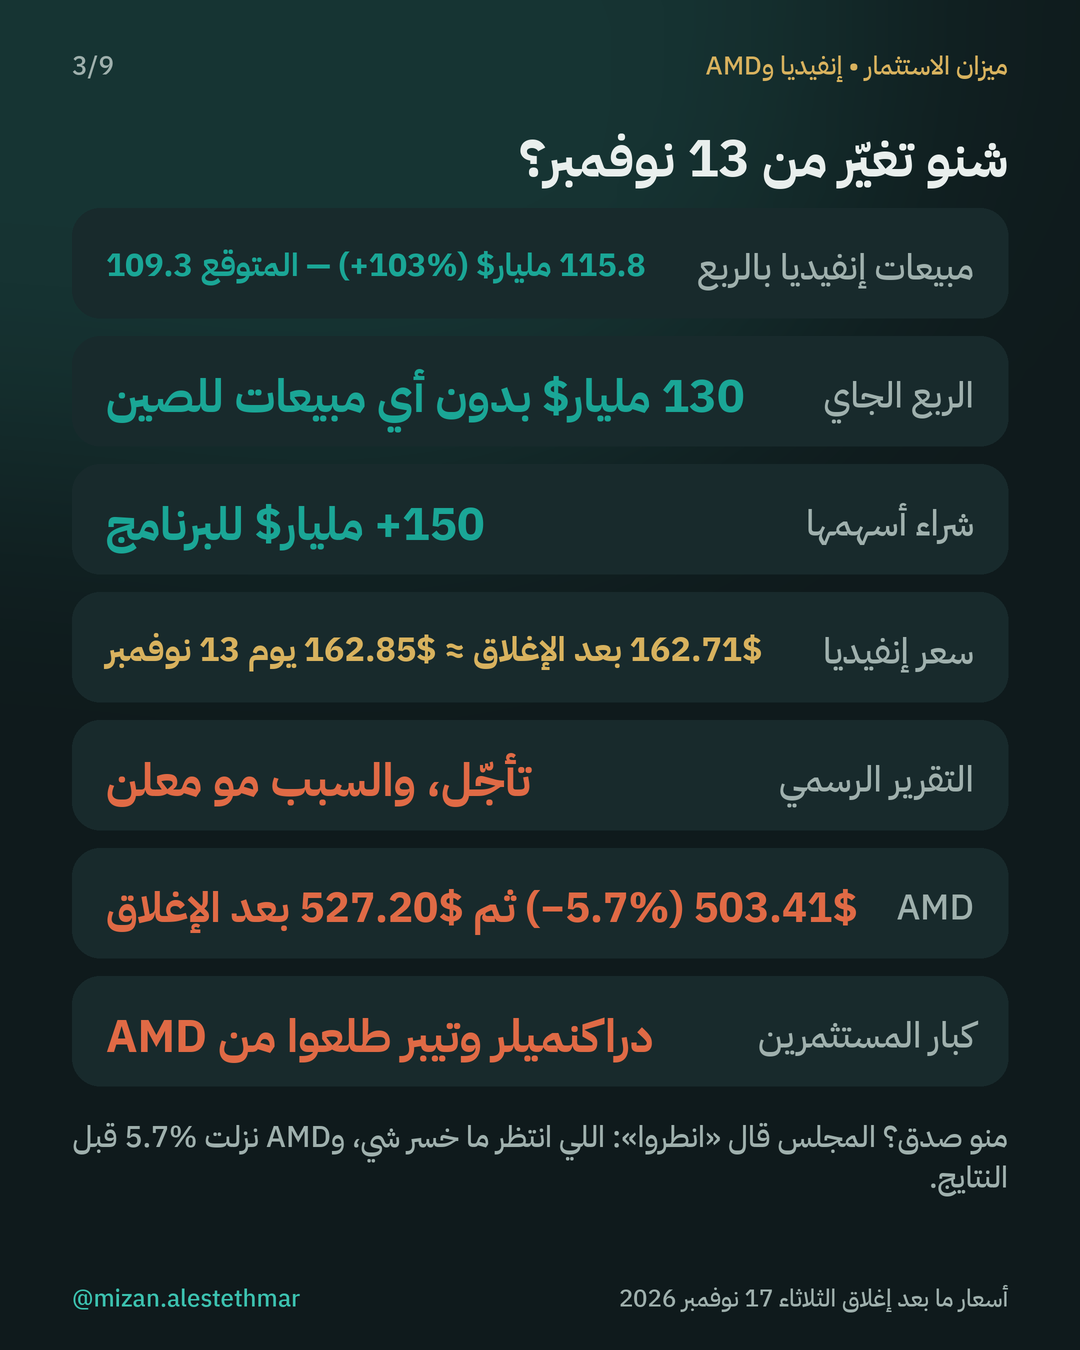
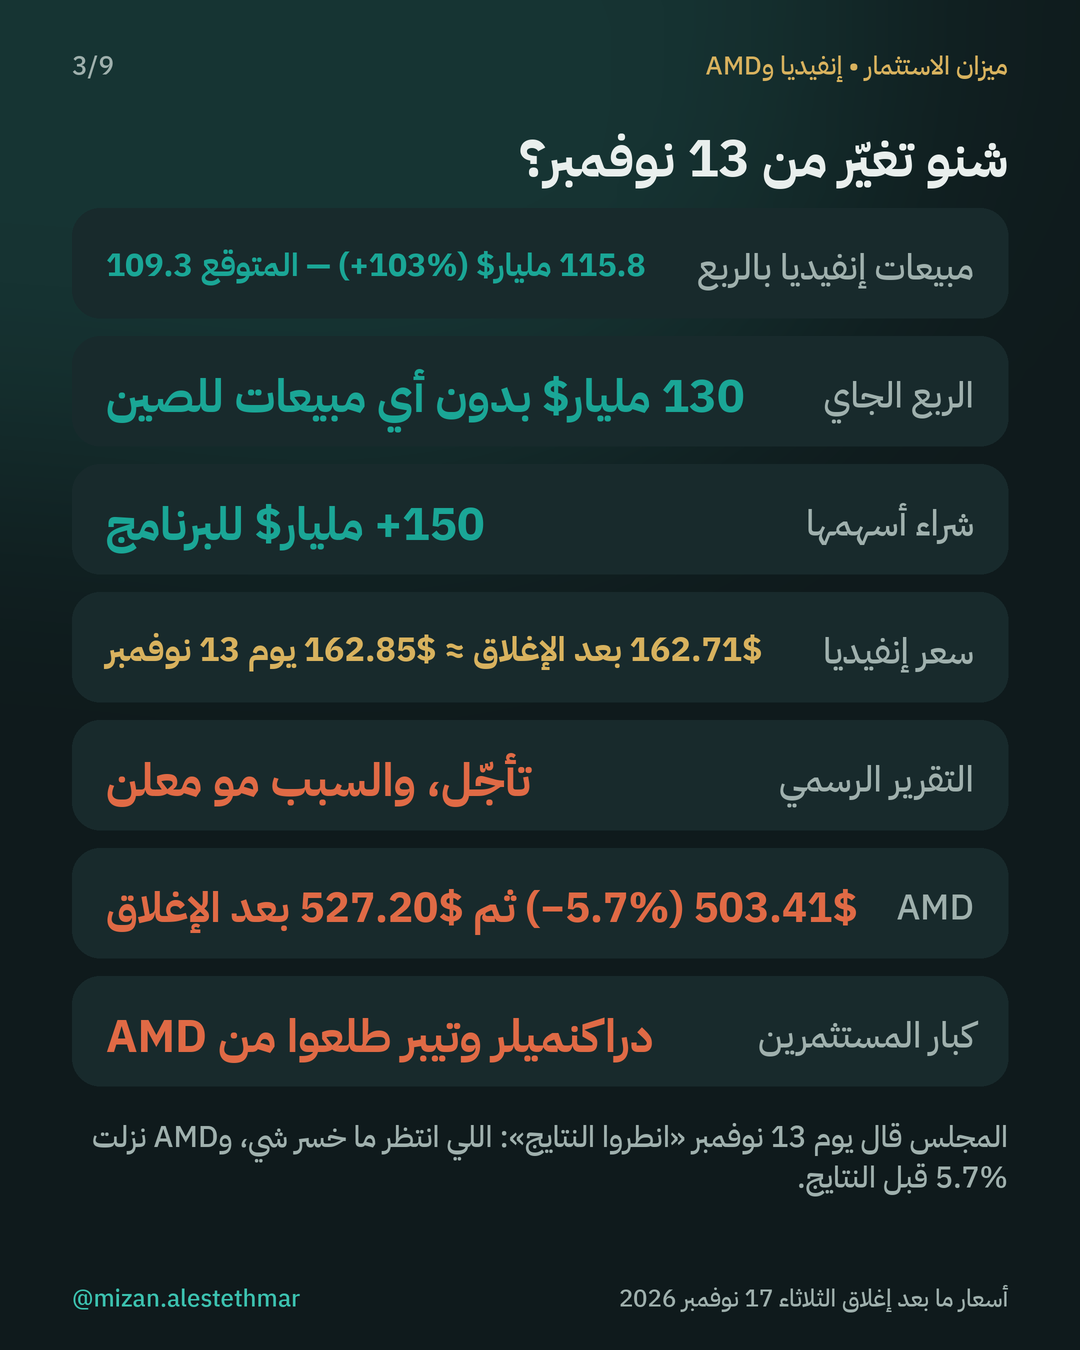
الحلقة 7 v3: بدون «منو صدق»، ختام الصقر كامل (بدر)

Changed region(s): [[0.0611, 0.8089, 0.9472, 0.9022]]

diff --git a/site/ep07-nvda-amd.html b/site/ep07-nvda-amd.html
@@ -4,7 +4,7 @@
 <meta charset="utf-8">
 <meta name="viewport" content="width=device-width,initial-scale=1">
 <title>الحلقة 7: آخر التطورات — إنفيديا وAMD بعد النتايج | مجلس المستشارين</title>
-<meta name="description" content="الحلقة السابعة من مجلس المستشارين: نتائج إنفيديا (مبيعات +103%) والسهم نازل 28% بشهر. شنو تغيّر من 13 نوفمبر، ومنو صدق، وميزان الاستثمار لإنفيديا وAMD. تحليل لا توصية.">
+<meta name="description" content="الحلقة السابعة من مجلس المستشارين: نتائج إنفيديا (مبيعات +103%) والسهم نازل 28% بشهر. شنو تغيّر من 13 نوفمبر، وميزان الاستثمار لإنفيديا وAMD. تحليل لا توصية.">
 <link rel="preconnect" href="https://fonts.googleapis.com">
 <link rel="preconnect" href="https://fonts.gstatic.com" crossorigin>
 <link rel="stylesheet" href="https://fonts.googleapis.com/css2?family=IBM+Plex+Sans+Arabic:wght@400;600;700&display=swap">
@@ -25,10 +25,10 @@
   <h1>آخر التطورات — إنفيديا وAMD بعد النتايج</h1>
   <p class="meta">جلسة المجلس: ليلة 18 نوفمبر 2026 (وضع كامل) · <span class="badge b-date">أسعار ما بعد إغلاق الثلاثاء 17 نوفمبر — تتغير عند افتتاح الأربعاء</span> · فيديو 1:25</p>
 
-  <p class="lede">يوم 13 نوفمبر قال المجلس عن إنفيديا وAMD: «انطروا النتايج». الثلاثاء 17 نوفمبر طلعت نتائج إنفيديا: مبيعات الربع 115.8 مليار$ (+103% عن السنة اللي طافت) والتوقعات كانت 109.3، وتوقع الربع الجاي 130 مليار$ بدون أي مبيعات للصين، وأضافت 150 مليار$ لبرنامج شراء أسهمها. بس السهم نازل 28% بشهر، وسعره بعد الإغلاق (162.71$) رجع تقريباً لنفس سعر 13 نوفمبر (162.85$). وبنفس الليلة: رئيس المجلس قال إن جنسن هوانغ ما يرجع، والشركة أخّرت تقريرها الربعي الرسمي بدون ما تقول السبب. شنو تغيّر؟ ومنو صدق؟</p>
+  <p class="lede">يوم 13 نوفمبر قال المجلس عن إنفيديا وAMD: «انطروا النتايج». الثلاثاء 17 نوفمبر طلعت نتائج إنفيديا: مبيعات الربع 115.8 مليار$ (+103% عن السنة اللي طافت) والتوقعات كانت 109.3، وتوقع الربع الجاي 130 مليار$ بدون أي مبيعات للصين، وأضافت 150 مليار$ لبرنامج شراء أسهمها. بس السهم نازل 28% بشهر، وسعره بعد الإغلاق (162.71$) رجع تقريباً لنفس سعر 13 نوفمبر (162.85$). وبنفس الليلة: رئيس المجلس قال إن جنسن هوانغ ما يرجع، والشركة أخّرت تقريرها الربعي الرسمي بدون ما تقول السبب. شنو تغيّر؟</p>
 
-  <div class="vid"><video controls playsinline preload="metadata" src="https://d2ol7oe51mr4n9.cloudfront.net/user_3KJGwRtEbfJGNmiXOrf7RVSlYxf/2d20cec2-8736-4ef8-9694-920ea00d38fc.mp4#t=0.5"></video></div>
-  <p class="meta" style="text-align:center">فيديو كرتوني عمودي باللهجة الكويتية، بترجمة كلمة بكلمة. الشخصيات مولّدة بالذكاء الاصطناعي. <a href="https://d2ol7oe51mr4n9.cloudfront.net/user_3KJGwRtEbfJGNmiXOrf7RVSlYxf/2d20cec2-8736-4ef8-9694-920ea00d38fc.mp4">تحميل الفيديو</a></p>
+  <div class="vid"><video controls playsinline preload="metadata" src="https://d2ol7oe51mr4n9.cloudfront.net/user_3KJGwRtEbfJGNmiXOrf7RVSlYxf/790cbcac-df72-4deb-b3f2-63e6f06298bf.mp4#t=0.5"></video></div>
+  <p class="meta" style="text-align:center">فيديو كرتوني عمودي باللهجة الكويتية، بترجمة كلمة بكلمة. الشخصيات مولّدة بالذكاء الاصطناعي. <a href="https://d2ol7oe51mr4n9.cloudfront.net/user_3KJGwRtEbfJGNmiXOrf7RVSlYxf/790cbcac-df72-4deb-b3f2-63e6f06298bf.mp4">تحميل الفيديو</a></p>
 
   <div class="facts">
     <div class="fact"><b class="ltr">+54</b><span>ميزان الاستثمار لإنفيديا (كان <span class="ltr">+19</span> يوم 13 نوفمبر)</span></div>
@@ -37,8 +37,8 @@
     <div class="fact"><b>6/10</b><span>AMD: انطر لين يصعد ويخلص يوم التداول فوق 556$</span></div>
   </div>
 
-  <h2>منو صدق؟</h2>
-  <p><b>«انطروا» صدقت.</b> اللي انتظر ما خسر شي: إنفيديا نزلت قبل النتايج لين 150.33$ (ما كسرت 148.80$) ورجعت بعدها 162.71$، يعني اللي شرى يوم 13 نوفمبر للحين تقريباً على راس ماله. وAMD نزلت 5.7% لين 503.41$ قبل ما تصعد بعد الإغلاق لـ527.20$ — للحين تحت سعر 13 نوفمبر (534.06$). الضب والسلحفاة والجمل صدقوا بالأرقام (الشروط الثلاثة اللي حطها المجلس تحققت)، والثعلب صدق إن «الملفات مفتوحة» بس ما صدق إن الصين بتضرب المبيعات.</p>
+  <h2>شنو صار بعد «انطروا النتايج»؟</h2>
+  <p><b>اللي انتظر ما خسر شي:</b> إنفيديا نزلت قبل النتايج لين 150.33$ (ما كسرت 148.80$) ورجعت بعدها 162.71$، يعني اللي شرى يوم 13 نوفمبر للحين تقريباً على راس ماله. وAMD نزلت 5.7% لين 503.41$ قبل ما تصعد بعد الإغلاق لـ527.20$ — للحين تحت سعر 13 نوفمبر (534.06$). الأرقام جات مثل ما توقع الضب والسلحفاة والجمل (الشروط الثلاثة اللي حطها المجلس تحققت)، والملفات المفتوحة اللي حذّر منها الثعلب زادت، بس الصين ما ضربت توقعات المبيعات.</p>
 
   <h2>لوحة الآراء — إنفيديا</h2>
   <p>كل مستشار يعطي درجة من <span class="ltr">-10</span> (بيع قوي) إلى <span class="ltr">+10</span> (شراء قوي). ولا مستشار غيّر درجته بالمناظرة.</p>

diff --git a/site/index.html b/site/index.html
@@ -24,11 +24,11 @@
   <div class="cards">
     <!--EPISODES: أحدث حلقة فوق-->
     <a class="card" href="ep07-nvda-amd.html">
-      <video muted playsinline preload="metadata" src="https://d2ol7oe51mr4n9.cloudfront.net/user_3KJGwRtEbfJGNmiXOrf7RVSlYxf/2d20cec2-8736-4ef8-9694-920ea00d38fc.mp4#t=0.5"></video>
+      <video muted playsinline preload="metadata" src="https://d2ol7oe51mr4n9.cloudfront.net/user_3KJGwRtEbfJGNmiXOrf7RVSlYxf/790cbcac-df72-4deb-b3f2-63e6f06298bf.mp4#t=0.5"></video>
       <div>
         <span class="badge b-ep">الحلقة 7</span>
         <h3>آخر التطورات — إنفيديا وAMD بعد النتايج</h3>
-        <p>مبيعات إنفيديا +103%… والسهم نازل 28% بشهر. يوم 13 نوفمبر قال المجلس «انطروا النتايج» — منو صدق؟ ميزان الاستثمار لإنفيديا +54 (كان +19): الدخول بعد ما يصعد ويخلص يوم التداول فوق 167$. وAMD صار −5: انتظار. والضيف الجمل.</p>
+        <p>مبيعات إنفيديا +103%… والسهم نازل 28% بشهر. يوم 13 نوفمبر قال المجلس «انطروا النتايج» — شنو تغيّر؟ ميزان الاستثمار لإنفيديا +54 (كان +19): الدخول بعد ما يصعد ويخلص يوم التداول فوق 167$. وAMD صار −5: انتظار. والضيف الجمل.</p>
         <span class="badge b-ok">متوافق شرعياً ✓</span><span class="badge b-date">أسعار ما بعد إغلاق 17 نوفمبر 2026</span>
         <p class="go">شاهد الحلقة ولوحة الآراء ←</p>
       </div>

diff --git a/tools/studio/episodes/nvda-amd-2026-11-18/script.md b/tools/studio/episodes/nvda-amd-2026-11-18/script.md
@@ -66,3 +66,7 @@
 3. «يبي كمال» للجمل: بطاقة تشرح «= AMD سعرها 116 مرة أرباحها (إنفيديا ~20) — أي غلطة بالنتايج تنزّلها وايد». (إعادة صوت الجمل تحتاج ~50 كريدت — بعد شحن الرصيد لو بدر يبي.)
 4. القاضي يقول الرقم: «انطر لين يصعد فوق مية وسبعة وستين دولار، ويخلص اليوم فوقها».
 5. الثقة: القاضي «وثقتي بخطة إنفيديا سبعة من عشرة» + بطاقة «الثقة = قد إيش القاضي متأكد من خياره الأول (مو ضمان)».
+
+## v3 — ملاحظات بدر (18 نوفمبر)
+- لا «منو صدق؟» ولا «المجلس قال انطروا... وصدق». الصقر يفتتح «...شنو تغيّر؟» ويختم «والقرار قراركم: شنو ودكم تسوون مع إنفيديا وAMD؟ اكتبوها بالكومنتات!». بطاقة الختام: «اللي انتظر النتايج ما خسر شي».
+- آخر مشهد الصقر طوّلناه عشان ما تنقطع كلمته.
